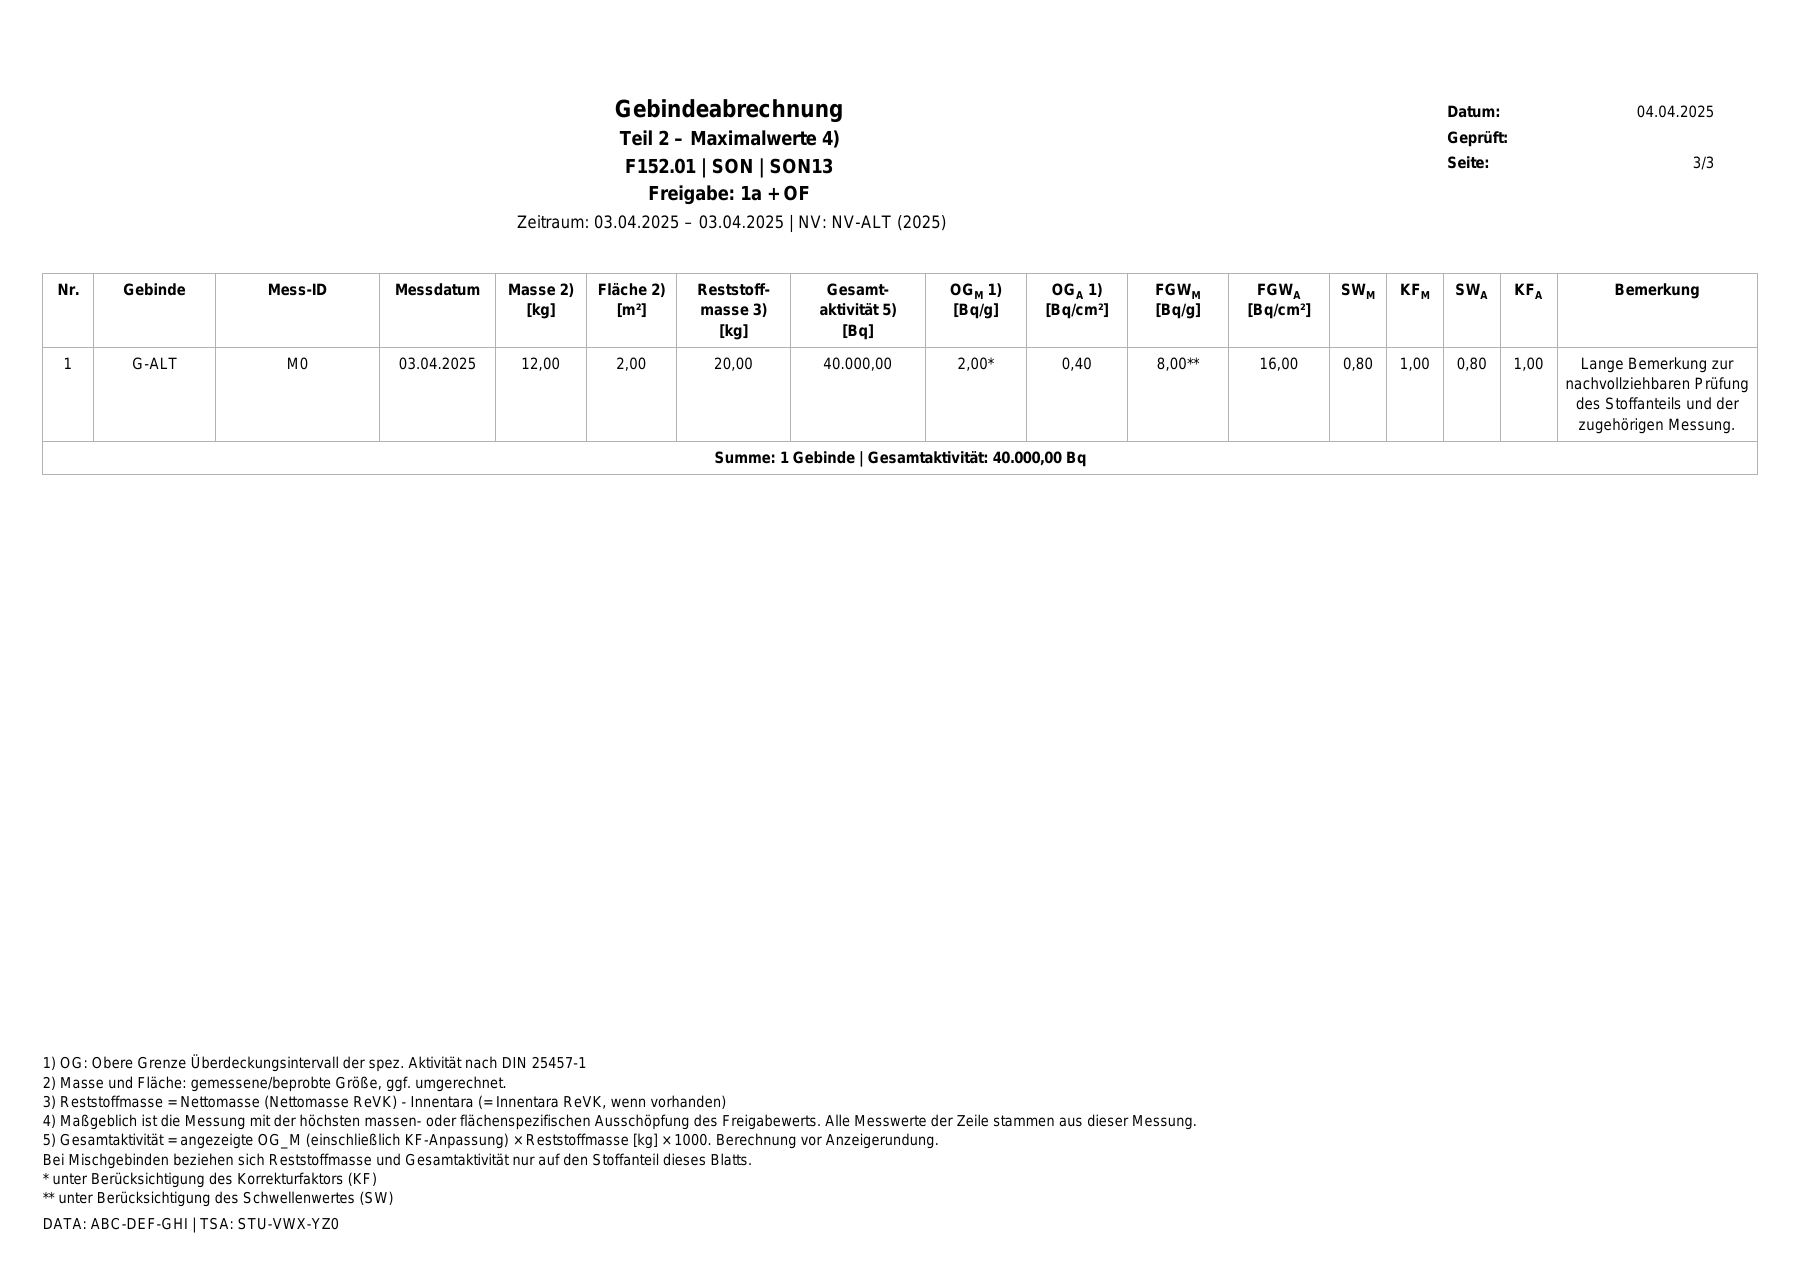
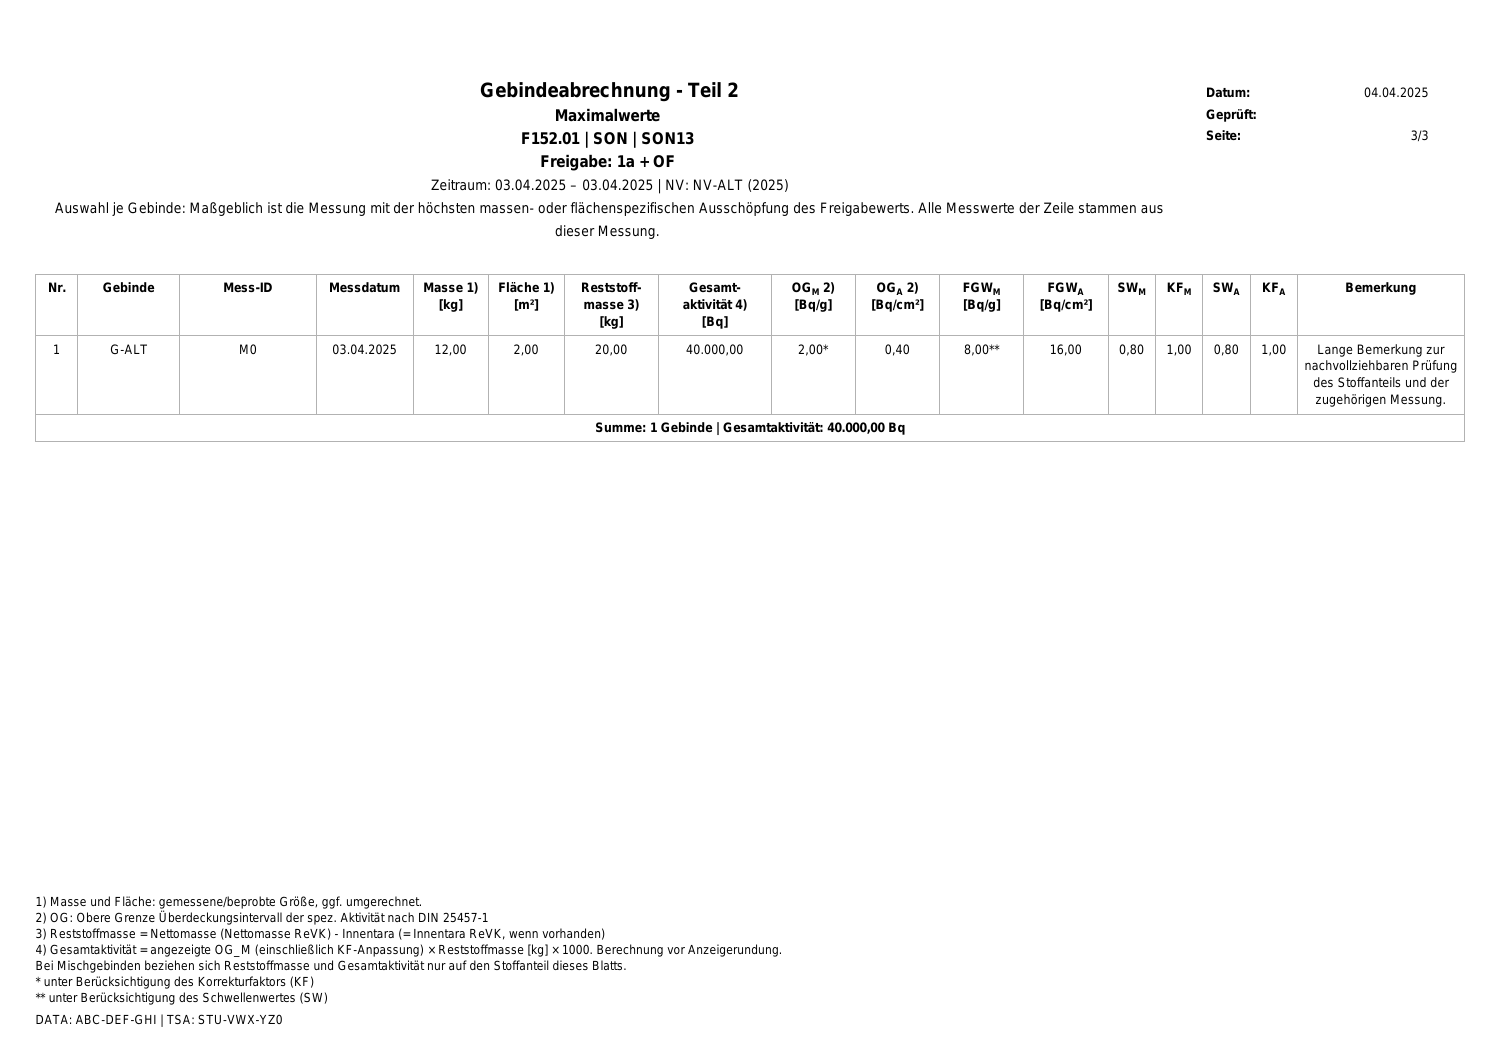
docs: sync from fmblog afaa2e69

diff --git a/docs/user-guide/reports.md b/docs/user-guide/reports.md
@@ -17,7 +17,7 @@ Einbezogen werden **alle aktuellen gültigen Messrevisionen** der ausgewählten 
 
 ## Blattaufteilung und Kopfzeilen
 
-Die Hauptüberschrift lautet **Gebindeabrechnung**, ohne Datum im Titel. Das Erstellungsdatum bleibt im bisherigen Kopfzeilenblock neben „Geprüft“ und der durchgängigen Seitennummerierung.
+Die Hauptüberschriften lauten **Gebindeabrechnung - Teil 1** und **Gebindeabrechnung - Teil 2**, ohne Datum im Titel. Darunter steht jeweils **Details** beziehungsweise **Maximalwerte**. Das Erstellungsdatum bleibt im bisherigen Kopfzeilenblock neben „Geprüft“ und der durchgängigen Seitennummerierung.
 
 Die Blätter werden nach FMK, Charge und Freigabepfad aufgeteilt. **SON und NEM werden zusätzlich nach Stoffklasse getrennt.** Beispiele:
 
@@ -35,11 +35,11 @@ Pro FMK ist eine Charge je Stoffart erforderlich. Mehrere Chargen derselben Stof
 
 ## Teil 1 – Details
 
-Dieser Teil enthält jede ausgewertete Messung. **Masse und Fläche gehören zur Messung**, nicht zum gesamten Gebinde. Die gemeinsame Fußnote lautet:
+Dieser Teil enthält jede ausgewertete Messung. **Masse und Fläche gehören zur Messung**, nicht zum gesamten Gebinde. Die gemeinsame Fußnote steht an erster Stelle (Fußnote **1**):
 
 > gemessene/beprobte Größe, ggf. umgerechnet.
 
-Am Abschnittsende steht eine Summenzeile mit der **Anzahl der Messungen**. Bei mehreren Seiten erscheint die Summe nur einmal am Ende, nicht als wiederholte Seitensumme.
+Teil 1 enthält keine Summenzeile.
 
 ## Teil 2 – Maximalwerte
 
@@ -49,7 +49,7 @@ $$
 q = \max\left(\frac{OG_M}{FGW_M},\frac{OG_A}{FGW_A}\right)
 $$
 
-Verwendet werden die bereits um KF beziehungsweise SW angepassten, ungerundeten Werte. Alle Messwerte und Faktoren der Zeile stammen aus derselben Messung. Die Mess-ID und das Messdatum machen die Quelle nachvollziehbar. Bei Gleichstand entscheiden aufsteigend Messzeitpunkt, Mess-ID und Revisionskennung.
+Verwendet werden die bereits um KF beziehungsweise SW angepassten, ungerundeten Werte. Alle Messwerte und Faktoren der Zeile stammen aus derselben Messung. Die Mess-ID und das Messdatum machen die Quelle nachvollziehbar. Die Auswahlregel steht als unnummerierter Hinweis **„Auswahl je Gebinde“** direkt unter Zeitraum und NV oberhalb der Tabelle; sie ist keine Fußnote am Untertitel. Bei Gleichstand entscheiden aufsteigend Messzeitpunkt, Mess-ID und Revisionskennung.
 
 Der Untertitel nennt den Zeitraum vom frühesten bis zum spätesten enthaltenen Messdatum sowie die verwendeten Nuklidvektoren mit Jahresversion. Der Zeitraum umfasst **alle Messungen des Abschnitts**, nicht nur die ausgewählten Maximalwertmessungen.
 
@@ -84,7 +84,7 @@ Nicht berechenbare Werte bleiben als solche gekennzeichnet und werden nicht durc
 ## Indizes und Fußnoten
 
 - **M**: massenspezifisch; **A**: flächenspezifisch. OG, FGW, SW und KF tragen diese Indizes.
-- **OG**: „Obere Grenze Überdeckungsintervall der spez. Aktivität nach DIN 25457-1“.
+- **Fußnote 2 – OG**: „Obere Grenze Überdeckungsintervall der spez. Aktivität nach DIN 25457-1“.
 - **\***: unter Berücksichtigung des Korrekturfaktors (KF).
 - **\*\***: unter Berücksichtigung des Schwellenwertes (SW).
 - Die Maximalwertauswahl, Aktivitätsformel und anteilige Behandlung von Mischgebinden werden unmittelbar auf der Abrechnung erläutert.

diff --git a/docs/architecture/adr-005-gebindeabrechnung.md b/docs/architecture/adr-005-gebindeabrechnung.md
@@ -29,7 +29,9 @@ Bestehende Freigabepfade und deren Reihenfolge bleiben erhalten. Die neue Auswah
 - Die bestehende Messauswertung liefert eindeutige Ergebnisse je Messrevision. Eine gemeinsame reine Berechnung erzeugt daraus Materialblätter, Maximalwerte, Zeitraum und NV-Angaben für Vorschau und PDF.
 - Bei gleicher Ausschöpfung entscheiden aufsteigend vollständiger Messzeitpunkt, Mess-ID und Revisionskennung. Fehlende Zeitpunkte stehen hinten.
 - Ein Quotient ist nur mit endlichen Werten und positivem FGW berechenbar. Fehlende erforderliche Vergleichswerte machen das Maximum unvollständig; nicht berechenbare Aktivitäten werden nicht als Null ausgegeben. Betroffene Summen und unvollständige Zeiträume erhalten einen Hinweis.
-- Die Summenzeile zählt Messungen beziehungsweise Gebinde pro fachlichem Blattabschnitt und erscheint einmal an dessen Ende, auch bei mehreren PDF-Seiten.
+- Teil 1 enthält keine Summenzeile. Nur Teil 2 summiert Gebindeanzahl und Gesamtaktivität pro fachlichem Blattabschnitt, einmal an dessen Ende auch bei mehreren PDF-Seiten.
+- Die Teilnummer steht in der Hauptüberschrift „Gebindeabrechnung - Teil 1“ beziehungsweise „Gebindeabrechnung - Teil 2“. „Details“ und „Maximalwerte“ bleiben als Untertitel erhalten.
+- Masse/Fläche erhält als erster Tabellenhinweis Fußnote 1, OG Fußnote 2, Reststoffmasse Fußnote 3 und Gesamtaktivität Fußnote 4. Die bisherige Fußnote zur Maximalwertauswahl entfällt: Ihre Regel steht unnummeriert als „Auswahl je Gebinde“ oberhalb der Tabelle in Teil 2. Damit wird sie unmittelbar vor dem Lesen der Werte erklärt, ohne einen Fußnotenverweis am Untertitel. Vorschau und PDF verwenden dieselbe Formulierung.
 - Neue Snapshots verwenden Version 4. Die Messliste bleibt eindeutig; Blattzuordnungen referenzieren die Messrevisionen. Maximalwerte und zugehörige Reststoffmassen werden zusammen mit ihren Grundlagen eingefroren und beim Einlesen gegen die gespeicherte Projektion geprüft.
 - Version 3 und ältere historische Ergebnisse bleiben lesbar. Original-Snapshots, PDFs, Hashes und TSA-Nachweise werden nicht migriert oder nachträglich verändert. Das SQL-Schema und technische `daily_reports`-Bezeichner bleiben bestehen.
 
